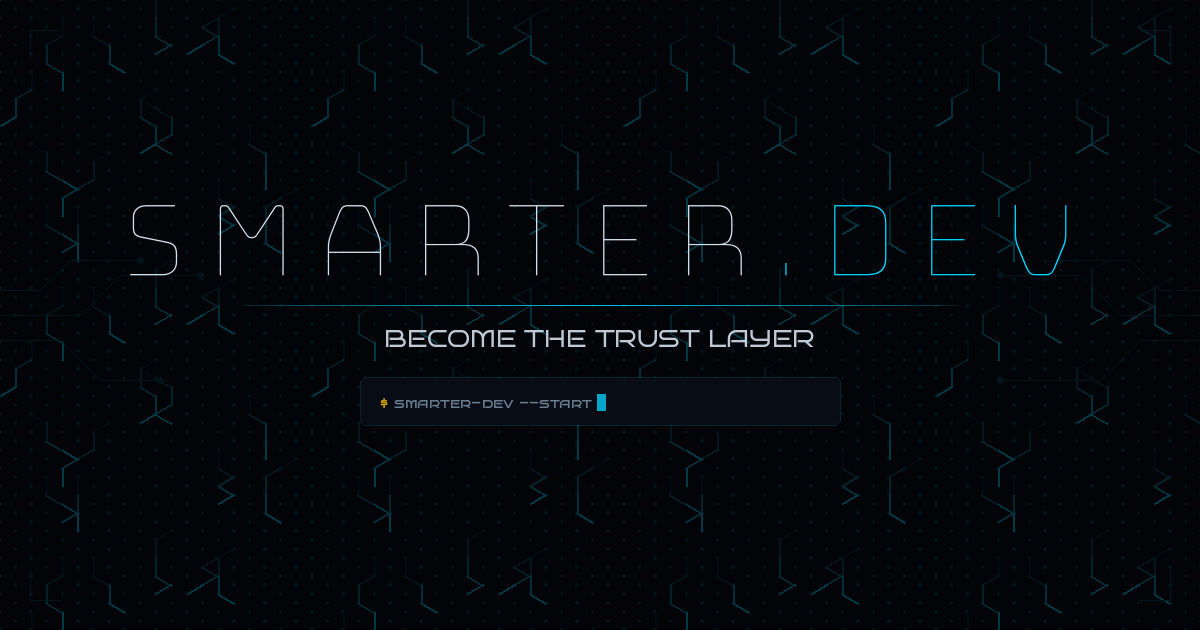
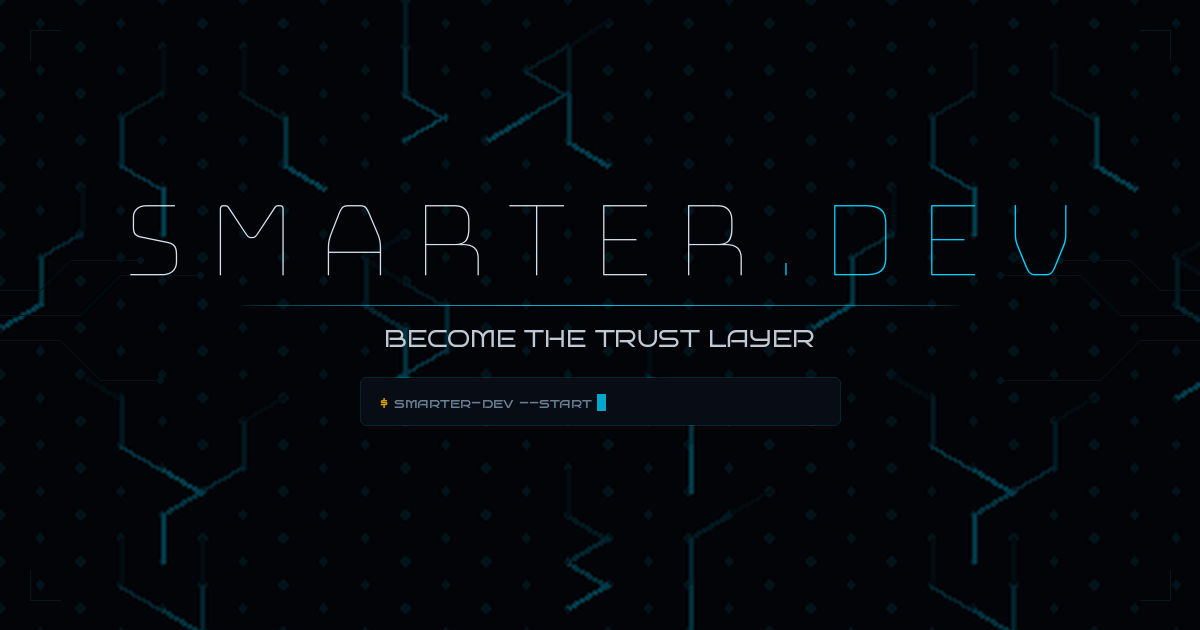
Enlarge OG bg pattern; fix sudo OG to actually serve
- Both OG generators (scripts/generate_default_og.py and
  generate_sudo_og.py) now scale the hex tile ~2.6x before laying it
  down so the pattern stays legible when the preview is shown at
  thumbnail size.
- generate_sudo_og.py now outputs to static/ so the file is reachable
  via the site/* static namespace. page-sudo.html's og:image points at
  /static/site/sudo-og-preview.png (the old /static/resources/... URL
  was 404 in prod). resources/sudo-og-preview.png is gone.

diff --git a/themes/smarterdev/templates/page-sudo.html b/themes/smarterdev/templates/page-sudo.html
@@ -12,14 +12,14 @@
 {% block og_meta %}
 <meta property="og:title" content="sudo · Premium membership for Smarter Dev">
 <meta property="og:description" content="Smarter Dev stays open. sudo is for anyone who wants deeper access to what we're building: the Resources agent, RunHacks challenges, the Gym's courses, and the Lab.">
-<meta property="og:image" content="https://smarter.dev/static/resources/sudo-og-preview.png">
+<meta property="og:image" content="https://smarter.dev/static/site/sudo-og-preview.png">
 <meta property="og:url" content="https://smarter.dev/sudo">
 <meta property="og:site_name" content="Smarter Dev">
 <meta property="og:type" content="website">
 <meta name="twitter:card" content="summary_large_image">
 <meta name="twitter:title" content="sudo · Premium membership for Smarter Dev">
 <meta name="twitter:description" content="Smarter Dev stays open. sudo is for anyone who wants deeper access to what we're building: the Resources agent, RunHacks challenges, the Gym's courses, and the Lab.">
-<meta name="twitter:image" content="https://smarter.dev/static/resources/sudo-og-preview.png">
+<meta name="twitter:image" content="https://smarter.dev/static/site/sudo-og-preview.png">
 {% endblock %}
 
 {% block page_css %}

diff --git a/generate_sudo_og.py b/generate_sudo_og.py
@@ -22,7 +22,7 @@ FONT_BUNGEE = str(FONT_DIR / "Bungee Hairline" / "BungeeHairline-Regular.ttf")
 FONT_BRUNO = str(FONT_DIR / "Bruno_Ace_SC" / "BrunoAceSC-Regular.ttf")
 EMAIL_HEX_BG = RESOURCE_DIR / "email-hex-bg.png"
 
-OUTPUT = RESOURCE_DIR / "sudo-og-preview.png"
+OUTPUT = PROJECT_ROOT / "static" / "sudo-og-preview.png"
 
 # ---------------------------------------------------------------------------
 # Dimensions & colors
@@ -44,9 +44,12 @@ def load_font(path: str, size: int) -> ImageFont.FreeTypeFont:
         return ImageFont.load_default()
 
 
-def tile_background(img: Image.Image) -> None:
-    """Tile the email hex background across the full image."""
+def tile_background(img: Image.Image, scale: float = 2.6) -> None:
+    """Tile the email hex background, scaled up so the pattern reads at
+    preview size (social previews show the OG image at ~500-600px wide)."""
     tile = Image.open(EMAIL_HEX_BG).convert("RGBA")
+    tw, th = tile.size
+    tile = tile.resize((int(tw * scale), int(th * scale)), Image.Resampling.LANCZOS)
     tw, th = tile.size
     for y in range(0, H, th):
         for x in range(0, W, tw):

diff --git a/scripts/generate_default_og.py b/scripts/generate_default_og.py
@@ -57,8 +57,17 @@ def load_font(path: str, size: int) -> ImageFont.FreeTypeFont:
         return ImageFont.load_default()
 
 
-def tile_background(img: Image.Image) -> None:
+def tile_background(img: Image.Image, scale: float = 2.6) -> None:
+    """Tile the hex background, scaled up so it reads at preview size.
+
+    Social cards display the OG image at ~500-600px wide; at the source
+    tile's native size the hex pattern compresses into noise. Scaling the
+    tile up (2-3x) keeps the cell count low enough to stay legible when
+    the image is shown small.
+    """
     tile = Image.open(EMAIL_HEX_BG).convert("RGBA")
+    tw, th = tile.size
+    tile = tile.resize((int(tw * scale), int(th * scale)), Image.Resampling.LANCZOS)
     tw, th = tile.size
     for y in range(0, H, th):
         for x in range(0, W, tw):
